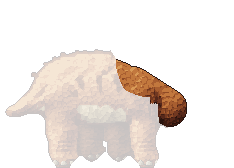
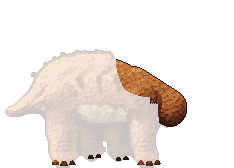
Torosaurus painted in HD
Painted over its drawing like the three-horn: blue-grey hide with its
dark mottling, the red frill rounded as a dome with its two white-ringed
windows and a ring of ivory spikes round its edge (RimSpikes, rim.go),
long brow horns and a nose horn painted again, the golden beak, elephant
feet with nails. It has an under-layer too, so the frill swings off a
painted back and neck when it eats or gores. The under-layer counts the
details (horns, spikes, eyes) as the head's.

diff --git a/internal/dinopaint/toro.go b/internal/dinopaint/toro.go
@@ -1,0 +1,173 @@
+package dinopaint
+
+// The bull-frill: dinos/toro.png, 86 x 62, facing right, a Torosaurus. Its
+// rig is "toro" in internal/client/dinorigs.go: legs near hind (hip 21.5,
+// 39), far hind (32.5, 40), far fore (42, 40), near fore (53, 39); the head,
+// frill and horns turn about (46.5, 35.5); the beak opens about (67.6, 44.2)
+// along the line to (77.9, 46.5); the tail turns about (16, 36).
+
+var (
+	toroIvory = []uint32{0x4c4436, 0x7c705c, 0xaa9c80, 0xd0c4a6, 0xeae2c8, 0xfaf6ea}
+	toroHoof  = []uint32{0x2e2c2a, 0x5c5850, 0x8e887a, 0xbab4a2, 0xdcd8c8}
+)
+
+func init() {
+	Register(toro())
+	// The shoulders and the neck under the frill, for when the head turns.
+	RegisterUnder("toro", &Under{Parts: []string{"frill", "head"}, Mat: "hide"})
+}
+
+func toro() *Species {
+	nearHind := Union(
+		Cone(21.5, 37.5, 7.4, 22.5, 49.5, 5.0),
+		Cone(22.5, 49.5, 4.8, 22, 56, 4.3),
+		Ellipse(22.2, 58.5, 5.4, 2.7, 0), // the foot, round as an elephant's
+	)
+	farHind := Union(
+		Cone(32.5, 39, 6, 33, 49.5, 4.4),
+		Cone(33, 49.5, 4.2, 32.5, 54.5, 3.8),
+		Ellipse(33, 56.4, 4.6, 2.2, 0),
+	)
+	farFore := Union(
+		Cone(42, 39, 6, 41.5, 49.5, 4.4),
+		Cone(41.5, 49.5, 4.2, 42, 54.5, 3.8),
+		Ellipse(42.6, 56.4, 4.6, 2.2, 0),
+	)
+	nearFore := Union(
+		Cone(53, 40.5, 6.2, 52.5, 49.5, 5.0),
+		Cone(52.5, 49.5, 4.8, 53, 56, 4.3),
+		Ellipse(53.4, 58.5, 5.4, 2.7, 0),
+	)
+	body := Blend(3,
+		Path([3]float64{0.8, 42.6, 0.8}, [3]float64{9, 38.6, 3}, [3]float64{18, 33, 6.5}), // the tail
+		Ellipse(30.5, 33.2, 21.5, 12.4, 0),
+		Ellipse(48.5, 37, 9, 9, 0), // the shoulders
+	)
+	frill := Ellipse(49, 19.5, 12, 14.8, -0.3)
+	head := Cut(Blend(2,
+		Poly(55.6, 27.6, 58, 26.8, 61, 26.5, 66, 28.6, 71, 31, 76, 34.5, 80, 38, 83.5, 40.2, 85.2, 43.5, 84.6, 47.4, 80.5, 49.2, 72, 49.4, 62, 49.2, 56.5, 46, 52.5, 41, 51.8, 36, 53, 31),
+		Ellipse(60.5, 39, 7.8, 8, 0), // the cheek and the jaw's corner
+	), Poly(44, 41.5, 57.4, 41.5, 58.6, 52, 44, 52)) // not the near shoulder, in front of it
+	beak := Poly(75.6, 40.4, 79.4, 39.4, 83.4, 41, 85.4, 44, 84.8, 47.6, 81.4, 48.8, 77.4, 47.8, 75.6, 44.6)
+	return &Species{
+		Name:        "toro",
+		GuideDetail: 0.5,
+		Ink:         31,
+		// The horns are painted again, smoothly: the guide's, above the
+		// face, are cut out of the silhouette first.
+		Remove: []SDF{
+			Poly(62.5, 27.2, 64, 8, 88, 8, 88, 40, 82.6, 40.2, 78, 37.6, 74, 34.2, 70, 31.2, 66, 29),
+		},
+		Recolor: []Recolor{
+			// The frill's white spikes are painted again, and its grey
+			// specks are its rim.
+			{Region: Cut(frill, Union(head, Ellipse(45.6, 15.6, 6.2, 6, 0), Ellipse(52.4, 24.8, 5.8, 5.6, 0))),
+				From: []string{"ivory", "hide", "grey", "patch", "belly"}, To: "rim"},
+			// A white spike of the guide's left on the back.
+			{Region: Poly(30, 18, 40, 18, 40, 30, 30, 30), From: []string{"ivory"}, To: "hide"},
+			// Below the flank the dark of the drawing is its shading.
+			{Region: Below(0, 37, 90, 37), From: []string{"patch"}, To: "grey"},
+		},
+		Materials: []Material{
+			{Name: "hide", Seeds: []uint32{0x768a9c, 0x5e7184, 0x485868, 0x90a3b2},
+				Ramp: []uint32{0x161a26, 0x222838, 0x30384a, 0x3e4a5e, 0x4e5c72, 0x627288, 0x7a8ca0, 0x96a8ba}},
+			{Name: "grey", Seeds: []uint32{0x7d8b92, 0x616e76, 0x47525a, 0x30383f, 0x9aa8ac, 0xb6c2c2},
+				Ramp:   []uint32{0x17191e, 0x22262c, 0x2e343a, 0x3c434a, 0x4c555c, 0x5e6970, 0x748087, 0x8e9aa0},
+				Region: Poly(14, 54, 60, 54, 60, 63, 14, 63), Only: []string{"ivory", "belly"}}, // the guide's nails are painted again
+			{Name: "patch", Seeds: []uint32{0x34404e, 0x222a34},
+				Ramp: []uint32{0x10131c, 0x181c28, 0x202634, 0x2a3242, 0x343e50, 0x404c60, 0x4e5c70, 0x5e6c80}, Smooth: 0.55, Bias: 0.1},
+			{Name: "belly", Seeds: []uint32{0x969282, 0x716e62, 0xbab6a2, 0xa09276, 0x625f54, 0x494840},
+				Ramp: []uint32{0x2a2820, 0x3a372c, 0x4c4839, 0x605b48, 0x767058, 0x8c866c, 0xa49e84, 0xbcb69e}, Relief: 0.7},
+			{Name: "red", Seeds: []uint32{0xa82c24, 0xc84430, 0x821e1e, 0x7a2626},
+				Ramp: []uint32{0x2c0a0c, 0x420e10, 0x5c1414, 0x781c1a, 0x962620, 0xb03226, 0xc84630, 0xdc6040}, Relief: 0.6},
+			{Name: "rim", Seeds: []uint32{0x601c20, 0x48141a, 0x300e14},
+				Ramp: []uint32{0x16060a, 0x200a0e, 0x2c0e12, 0x3a1216, 0x4a161a, 0x5a1c20, 0x6c2428, 0x7e2e30}},
+			{Name: "ivory", Seeds: []uint32{0xeee6cc, 0xfffaea, 0xd2c6a6},
+				Ramp: []uint32{0x5a5444, 0x7a725e, 0x9a927a, 0xb8b096, 0xd2caae, 0xe6dec4, 0xf4eedc, 0xfcfaf0}, Relief: 0.4},
+			// The two windows in the frill, ringed white, drawn round over the guide's.
+			{Name: "ring", Ramp: []uint32{0x5a6266, 0x7a8486, 0x9aa4a4, 0xb8c2c0, 0xd0d8d6, 0xe2eae6, 0xf0f6f2, 0xfafefa}, Relief: 0.3,
+				Region: Cut(Union(Ellipse(45.6, 15.6, 5.9, 5.7, -0.1), Ellipse(52.4, 24.8, 5.5, 5.3, -0.1)), head)},
+			{Name: "spot", Ramp: []uint32{0x0a0e16, 0x10141e, 0x141a28, 0x1a2232, 0x202a3c, 0x263246, 0x2c3a50, 0x34445a}, Relief: 0.3,
+				Region: Cut(Union(Ellipse(45.6, 15.6, 4.7, 4.5, -0.1), Ellipse(52.4, 24.8, 4.3, 4.1, -0.1)), head)},
+			{Name: "beak", Ramp: []uint32{0x2a2010, 0x3e3016, 0x56441e, 0x6e5828, 0x887034, 0xa08a44, 0xb8a25a, 0xcebc78}, Relief: 0.3,
+				Region: beak},
+		},
+		Parts: []Part{
+			{Name: "farHind", Shape: farHind, Far: true, Round: 3.6, Scale: 0.85, Mat: "grey", Muscles: []Muscle{
+				Mu(32.5, 43, 4.2, 4.8, 0, 1.0),
+			}},
+			{Name: "farFore", Shape: farFore, Far: true, Round: 3.6, Scale: 0.85, Mat: "grey", Muscles: []Muscle{
+				Mu(42, 43, 4.2, 4.8, 0, 1.0),
+			}},
+			{Name: "body", Shape: body, Round: 8, Muscles: []Muscle{
+				Mu(21, 31, 7.5, 6.5, 0, 1.6),     // the hip
+				Mu(34, 30, 10, 7, 0, 1.0),        // the ribs
+				Mu(47, 36, 5.5, 6.5, 0.2, 1.4),   // the shoulder
+				Mu(32, 42, 12, 3, 0, 0.6),        // the belly
+				Mu(10, 37.5, 7, 2.6, 0.45, 0.9),  // the tail
+				Mu(26, 25, 9, 2.6, -0.05, 0.6),   // the long muscles of the back
+				Mu(15.5, 35.5, 3.5, 4, 0.5, 0.8), // the tail's root
+			}},
+			// The neck, short and thick, all under the frill and the head: it
+			// shows only when the head turns (the under-layer).
+			{Name: "neck", Shape: Cone(45, 33, 8, 59.5, 40, 7), Round: 6, Onto: "body", Seam: Below(0, 999, 100, 999), Muscles: []Muscle{
+				Mu(52, 32, 6.5, 4.5, 0.4, 1.0),
+			}},
+			{Name: "nearHind", Shape: nearHind, Round: 4.6, Onto: "body", Seam: Below(5, 42, 36, 42), Muscles: []Muscle{
+				Mu(21, 41.5, 5, 6, 0, 1.8), // the thigh
+				Mu(22.5, 50, 2.6, 2.3, 0, 0.6),
+				Mu(22.3, 58, 3.8, 1.9, 0, 0.6), // the foot
+			}},
+			{Name: "nearFore", Shape: nearFore, Round: 4.6, Onto: "body", Seam: Below(43, 42.5, 62, 42.5), Muscles: []Muscle{
+				Mu(53, 43, 4.6, 5.4, 0, 1.6), // the upper arm
+				Mu(52.6, 50, 2.6, 2.3, 0, 0.6),
+				Mu(53.6, 58, 3.6, 1.9, 0, 0.6),
+			}},
+			// The frill and the head in front of the near shoulder.
+			{Name: "frill", Shape: frill, Round: 3.4, Soft: 0.6, Scale: 0.9, Muscles: []Muscle{
+				Mu(47, 17, 7, 8, -0.3, 1.0), // a shallow dome
+				Mu(41, 26, 3, 4, 0, 0.5),    // the thick bar at its root
+			}},
+			{Name: "head", Shape: head, Round: 4.6, Soft: 0.7, Scale: 0.75, Muscles: []Muscle{
+				Mu(60.5, 40.5, 5, 4.5, 0, 1.7),      // the cheek and jaw muscle
+				Mu(68.5, 34.6, 2.8, 1.3, -0.2, 1.4), // the brow over the eye
+				Mu(74.5, 37.5, 2.6, 2.2, 0, 0.9),    // the base of the nose horn
+				Mu(80.5, 43.5, 3.8, 3, 0, 0.9),      // the beak
+				Mu(57, 30.5, 4, 2.5, 0, 0.8),        // the back of the skull
+			}},
+		},
+		Skin: Skin{Flank: 2.1, Back: 3.4, Belly: 1.5, BackDepth: 5, BellyDepth: 4, Seed: 29},
+		Osteoderms: []Row{
+			{X0: 13, X1: 38, Off: 1.1, Gap: 3.2, R: 1.0, Crest: 0.3, Parts: []string{"body"}},
+			{X0: 17, X1: 36, Off: 3.6, Gap: 4.2, R: 0.85, Parts: []string{"body"}},
+		},
+		Folds: []Fold{
+			{Pts: []float64{57, 35, 56, 39.5, 56.6, 44}, N: 2, DX: -2, DY: 0.4, Depth: 1.2}, // the neck, under the frill
+			{Pts: []float64{18.5, 52.5, 26, 52.3}, N: 3, DY: 1.4, Depth: 1.0},               // wrinkled legs
+			{Pts: []float64{49, 52.5, 56.5, 52.3}, N: 3, DY: 1.4, Depth: 1.0},
+			{Pts: []float64{29.5, 51, 36, 50.8}, N: 2, DY: 1.4, Depth: 0.7},
+			{Pts: []float64{39, 51, 45.5, 50.8}, N: 2, DY: 1.4, Depth: 0.7},
+			{Pts: []float64{65, 43.4, 71.5, 45, 77.6, 46.4}, N: 1, Depth: 2.2}, // the line of the mouth
+		},
+		Details: toroDetails,
+	}
+}
+
+func toroDetails(p *Painter) {
+	// The spikes round the frill's edge, from its root over the top to the
+	// side of the head.
+	p.RimSpikes(RimSpec{X: 49, Y: 19.5, RX: 12, RY: 14.8, Rot: -0.3, T0: 2.9, T1: 6.45, N: 14, In: 0.5, Out: 2.1, W: 2.3, Ramp: toroIvory})
+	// The far brow horn, behind; the nose horn; the near brow horn.
+	p.Horn(HornSpec{X0: 71.8, Y0: 32.4, X1: 85.4, Y1: 14.6, W: 2.7, Bend: 0.7, Ramp: toroIvory, Grooves: true, Shade: -0.3})
+	p.Horn(HornSpec{X0: 76.4, Y0: 39.2, X1: 78.6, Y1: 31.4, W: 2.4, Bend: 0.4, Ramp: toroIvory})
+	p.Horn(HornSpec{X0: 67.2, Y0: 31.8, X1: 80.0, Y1: 12.4, W: 3.3, Bend: 0.9, Ramp: toroIvory, Grooves: true})
+	p.Eye(EyeSpec{X: 68.7, Y: 36.5, R: 0.95, Iris: greenIris, Lid: 0.3, Squint: 1.3})
+	p.Nostril(80, 40.8, 0.7, 0.45, -0.3)
+	// The nails of the near feet, then the far ones, darker.
+	for _, n := range [][3]float64{{19.4, 61, 1}, {22.3, 61.2, 1.05}, {25.2, 60.9, 0.9}, {50.6, 61, 1}, {53.5, 61.2, 1.05}, {56.3, 60.8, 0.9}} {
+		p.Nail(n[0], n[1], 2.5*n[2], 1.8*n[2], toroHoof, -0.15)
+	}
+	for _, n := range [][2]float64{{31.6, 58.4}, {34.3, 58.3}, {41.2, 58.4}, {43.9, 58.3}} {
+		p.Nail(n[0], n[1], 2.1, 1.5, toroHoof, -0.45)
+	}
+}

diff --git a/internal/dinopaint/rim.go b/internal/dinopaint/rim.go
@@ -1,0 +1,37 @@
+package dinopaint
+
+import "math"
+
+// RimSpec is a row of spikes along the edge of an ellipse (a frill's
+// epoccipitals): the ellipse as Ellipse takes it, the spikes N of them from
+// angle T0 to T1 (radians, 0 to the right, π/2 down), each rooted In inside
+// the edge and standing Out beyond it, W wide at the root.
+type RimSpec struct {
+	X, Y, RX, RY, Rot float64
+	T0, T1            float64
+	N                 int
+	In, Out, W        float64
+	Ramp              []uint32
+	Shade             float64
+}
+
+// RimSpikes paints the spikes of r, each a little horn pointing straight
+// out of the edge.
+func (p *Painter) RimSpikes(r RimSpec) {
+	s, c := math.Sincos(r.Rot)
+	for k := 0; k < r.N; k++ {
+		t := r.T0
+		if r.N > 1 {
+			t += (r.T1 - r.T0) * float64(k) / float64(r.N-1)
+		}
+		st, ct := math.Sincos(t)
+		lx, ly := r.RX*ct, r.RY*st
+		nx, ny := ct/r.RX, st/r.RY // the normal, before turning
+		l := math.Hypot(nx, ny)
+		nx, ny = nx/l, ny/l
+		ex, ey := r.X+lx*c-ly*s, r.Y+lx*s+ly*c
+		ux, uy := nx*c-ny*s, nx*s+ny*c
+		p.Horn(HornSpec{X0: ex - ux*r.In, Y0: ey - uy*r.In, X1: ex + ux*r.Out, Y1: ey + uy*r.Out,
+			W: r.W, Ramp: r.Ramp, Shade: r.Shade})
+	}
+}

diff --git a/internal/client/dinos/hd/gen.py b/internal/client/dinos/hd/gen.py
@@ -23,7 +23,7 @@ HERE = os.path.dirname(os.path.abspath(__file__))
 # teeth: the box of the mouth, where pale pixels are teeth.
 # Painted by hand-written descriptions in Go instead (internal/dinopaint,
 # cmd/dinopaint; see README.md here): this script leaves them alone.
-PAINTED = {'rex', 'trike'}
+PAINTED = {'rex', 'trike', 'toro'}
 
 CFG = {
     'rex':         dict(skin='scale', cell=(5, 4), eyes=[(87, 20, 88, 20)], slit=True, teeth=(82, 31, 105, 34)),

diff --git a/internal/dinopaint/under.go b/internal/dinopaint/under.go
@@ -76,10 +76,11 @@ func PaintUnder(sp *Species, u *Under, guide image.Image, m *Painter) *image.NRG
 			continue
 		}
 		j := m.Part[i]
+		head := j < 0 || omit[j] || m.Pro[i] // the details (horns, eyes, spikes) are the head's
 		switch {
-		case j >= 0 && !omit[j]:
+		case !head:
 			p.In[i], keep[i] = true, true
-		case j >= 0:
+		default:
 			x, y := G(i%m.W, i/m.W)
 			if u.Region != nil && u.Region(x, y) > 0 {
 				continue
